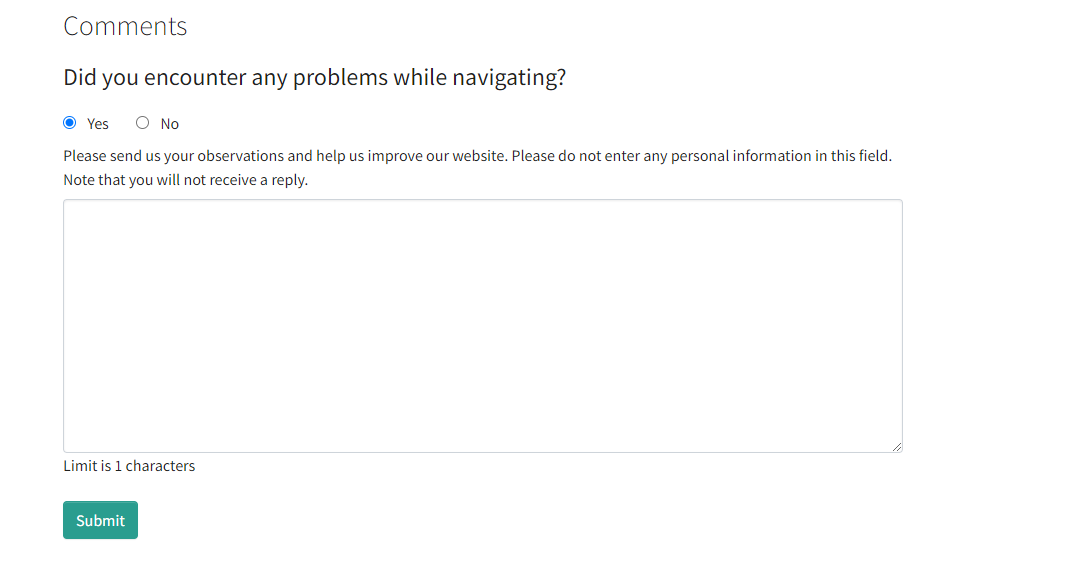
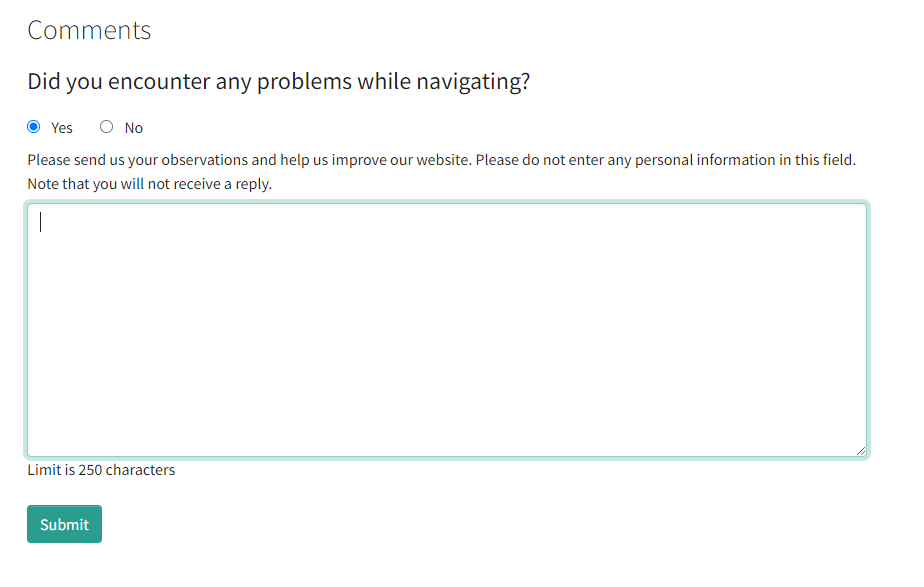
Modify Readme file, add screenchot for FE component

diff --git a/README.md b/README.md
@@ -41,7 +41,7 @@ The extension also supports the Recaptcha verification, you can enable it and us
         settings {
             comments {
                 // by default 500
-                maxCharacters = 10
+                maxCharacters = 250
             }
             recaptcha {
                 // enabled = 1, disabled = 0
@@ -150,7 +150,7 @@ L'extension supporte également la vérification Recaptcha, vous pouvez l'active
         settings {
             comments {
                 // Par défaut 500
-                maxCharacters = 10
+                maxCharacters = 250
             }
     
             recaptcha {
